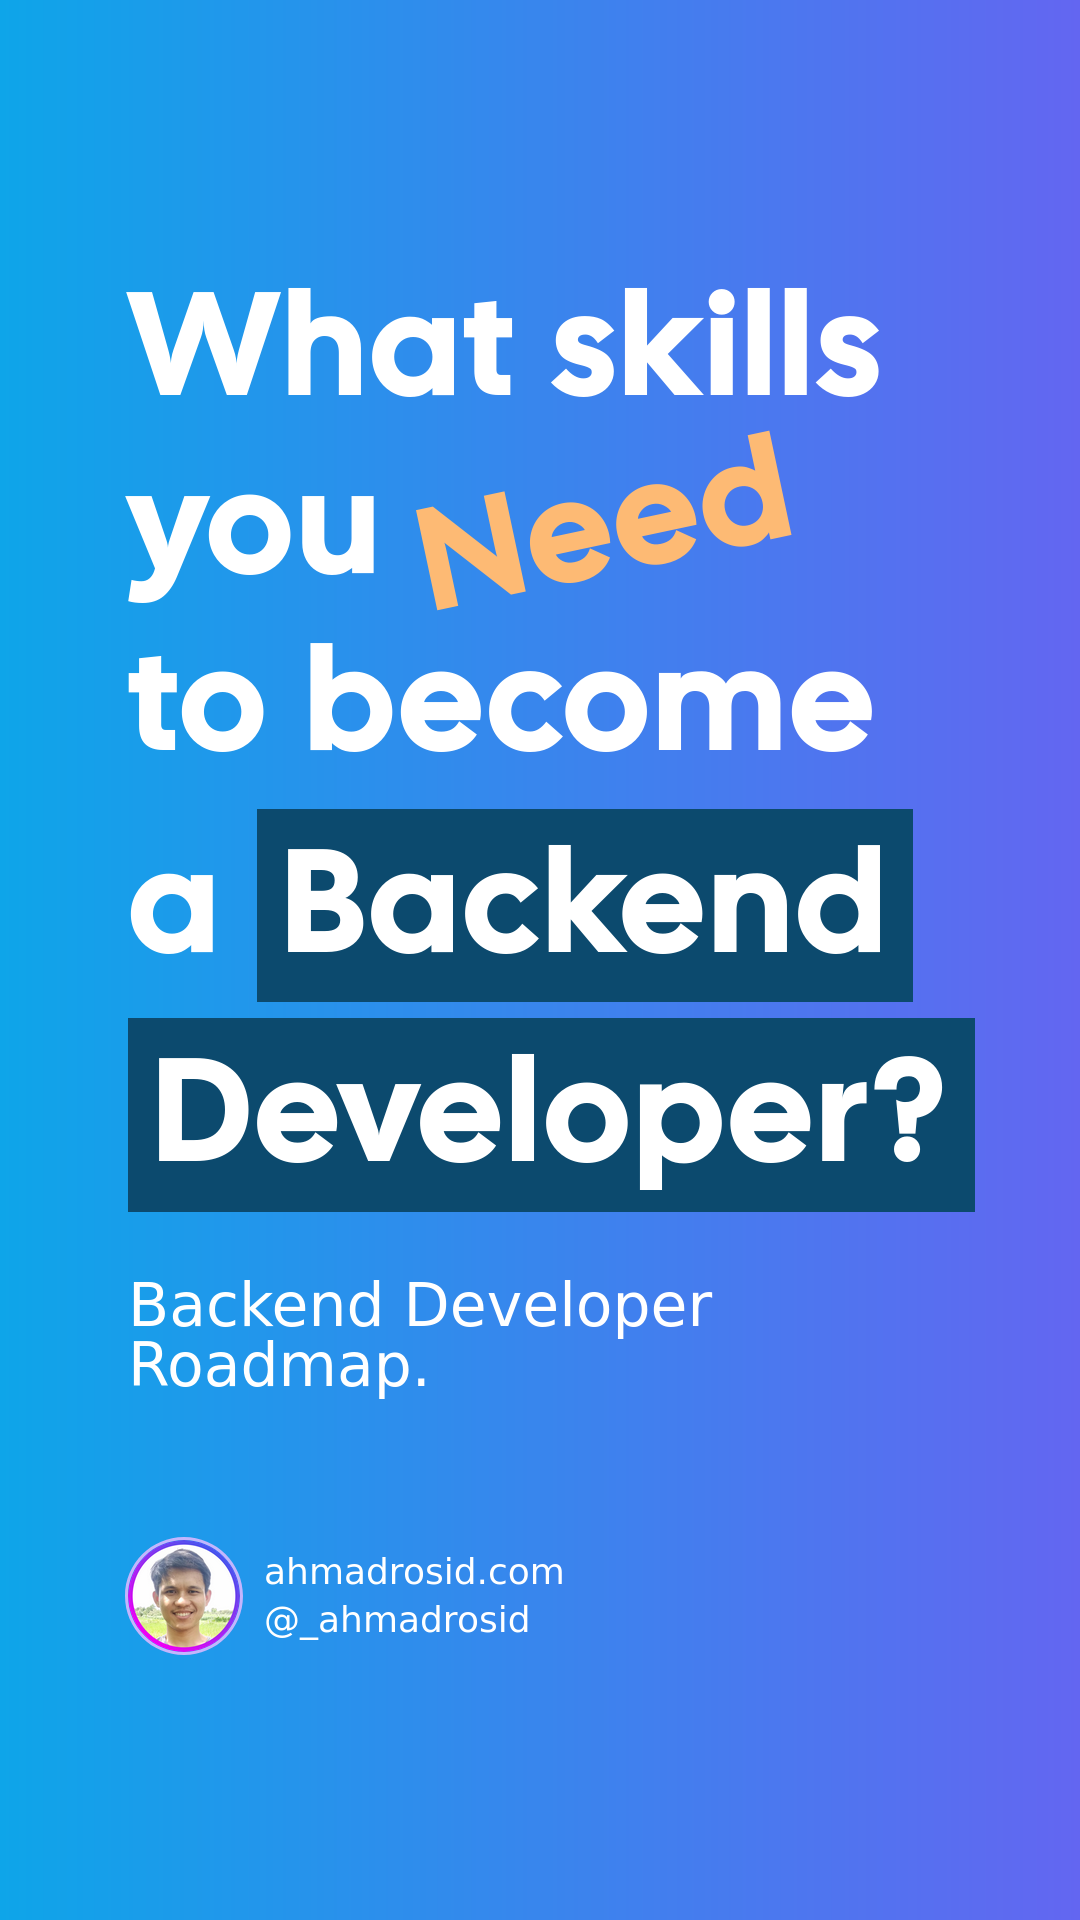
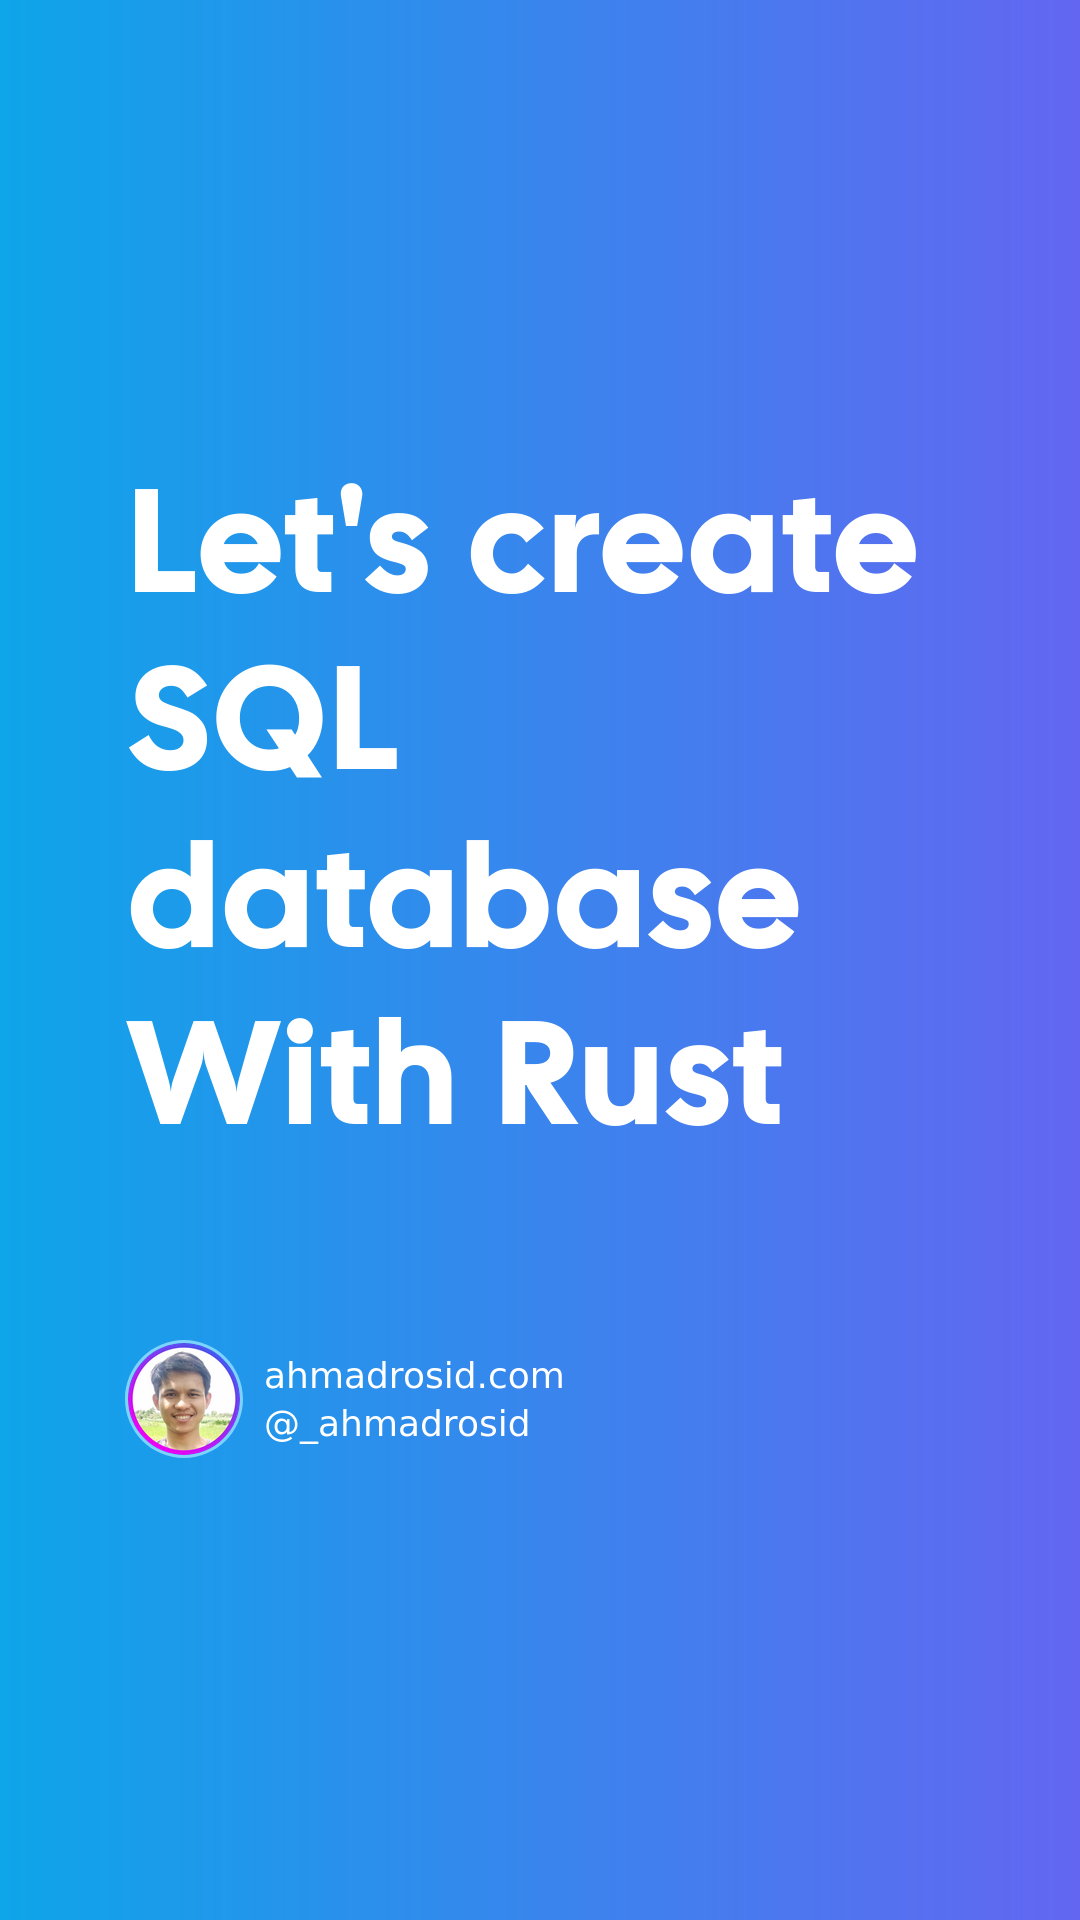
chore: tidy up

Changed region(s): [[0.0917, 0.125, 0.9167, 0.875], [0.1222, 0.125, 0.4889, 0.2188]]

diff --git a/pages/potrait.js b/pages/potrait.js
@@ -1,40 +1,11 @@
-import Head from 'next/head'
-
-const LinearGradient = ({ option, children }) => {
-  const bgOption = [
-    "flex items-center justify-center p-12 bg-gradient-to-r from-cyan-500 to-blue-500 relative",
-    "flex items-center justify-center p-12 bg-gradient-to-r from-sky-500 to-indigo-500 relative",
-    "flex items-center justify-center p-12 bg-gradient-to-r from-violet-500 to-fuchsia-500 relative",
-    "flex items-center justify-center p-12 bg-gradient-to-r from-purple-500 to-pink-500 relative",
-    "flex items-center justify-center p-12 bg-gradient-to-r from-indigo-500 via-sky-500 to-teal-400 relative",
-    "flex items-center justify-center p-12 bg-gradient-to-r from-pink-500 to-yellow-500 relative",
-    "flex items-center justify-center p-12 bg-gradient-to-r from-orange-500 to-amber-500 relative",
-  ]
-
-  return (
-    <div className={"w-[1080px] h-[1920px] " + (bgOption[option] ? bgOption[option] : `flex items-center justify-center p-12 bg-white relative`)}>
-      {children}
-    </div>
-  )
-}
+import Content from "../components/content"
+import LinearGradient from "../components/linear-background"
 
 export default function Home() {
   return (
     <>
-      <LinearGradient option={1} >
-        <div className="px-20 w-full">
-            <h1 className="text-[142px] leading-tight pb-6 font-bold text-white">
-                What skills you <span className='text-orange-300 leading-none -rotate-12 inline-block'>Need</span> to become a <span className='text-white bg-sky-900 inline-block px-6 pt-4 my-2'>Backend</span> <span className='text-white bg-sky-900 inline-block px-6 pt-4 my-2'>Developer?</span>
-            </h1>
-            <p className='text-6xl pt-8 text-white'>Backend Developer Roadmap.</p>
-            <div className='flex mt-36 items-center gap-6 w-full'>
-                <img className="w-28 outline rounded-full outline-violet-300" src="/profile.png" />
-                <div className='text-4xl text-white space-y-2'>
-                    <p>ahmadrosid.com</p>
-                    <p>@_ahmadrosid</p>
-                </div>
-            </div>
-        </div>
+      <LinearGradient option={1} height={1920} >
+        <Content />
       </LinearGradient>
     </>
   )

diff --git a/pages/index.js b/pages/index.js
@@ -1,23 +1,10 @@
 import LinearGradient from "../components/linear-background"
+import Content from "../components/content"
 
 export default function Home() {
   return (
-    <>
-      <LinearGradient option={2} width={1920}>
-        <div className="px-20 w-full">
-          <h1 className="text-[142px] leading-tight pb-6 font-bold text-white">
-            My Command-Line Utility Collections
-          </h1>
-          {/* <p className='text-6xl pt-8 text-white'>Backend Developer Roadmap.</p> */}
-          <div className='flex mt-36 items-center gap-6'>
-            <img className="w-28 outline rounded-full outline-sky-300" src="/profile.png" />
-            <div className='text-4xl text-white space-y-2'>
-              <p>ahmadrosid.com</p>
-              <p>@_ahmadrosid</p>
-            </div>
-          </div>
-        </div>
-      </LinearGradient>
-    </>
+    <LinearGradient option={2} width={1920}>
+      <Content />
+    </LinearGradient>
   )
 }

diff --git a/components/linear-background.js b/components/linear-background.js
@@ -3,6 +3,7 @@ const LinearGradient = ({ option, children, width = 1080, height = 1080 }) => {
     const bgOption = [
         "flex items-center justify-center p-12 bg-gradient-to-r from-cyan-500 to-blue-500 relative",
         "flex items-center justify-center p-12 bg-gradient-to-r from-sky-500 to-indigo-500 relative",
+        "flex items-center justify-center p-12 bg-gradient-to-r from-sky-500 to-cyan-500 relative",
         "flex items-center justify-center p-12 bg-gradient-to-r from-violet-500 to-fuchsia-500 relative",
         "flex items-center justify-center p-12 bg-gradient-to-r from-purple-500 to-pink-500 relative",
         "flex items-center justify-center p-12 bg-gradient-to-r from-indigo-500 via-sky-500 to-teal-400 relative",

diff --git a/components/content.js b/components/content.js
@@ -1,0 +1,17 @@
+export default function Content() {
+    return (
+        <div className="px-20 w-full">
+            <h1 className="text-[142px] leading-tight pb-6 font-bold text-white">
+                Let's create SQL database With Rust
+            </h1>
+            {/* <p className='text-6xl pt-8 text-white'>Backend Developer Roadmap.</p> */}
+            <div className='flex mt-36 items-center gap-6'>
+                <img className="w-28 outline rounded-full outline-sky-300" src="/profile.png" />
+                <div className='text-4xl text-white space-y-2'>
+                    <p>ahmadrosid.com</p>
+                    <p>@_ahmadrosid</p>
+                </div>
+            </div>
+        </div>
+    )
+}
